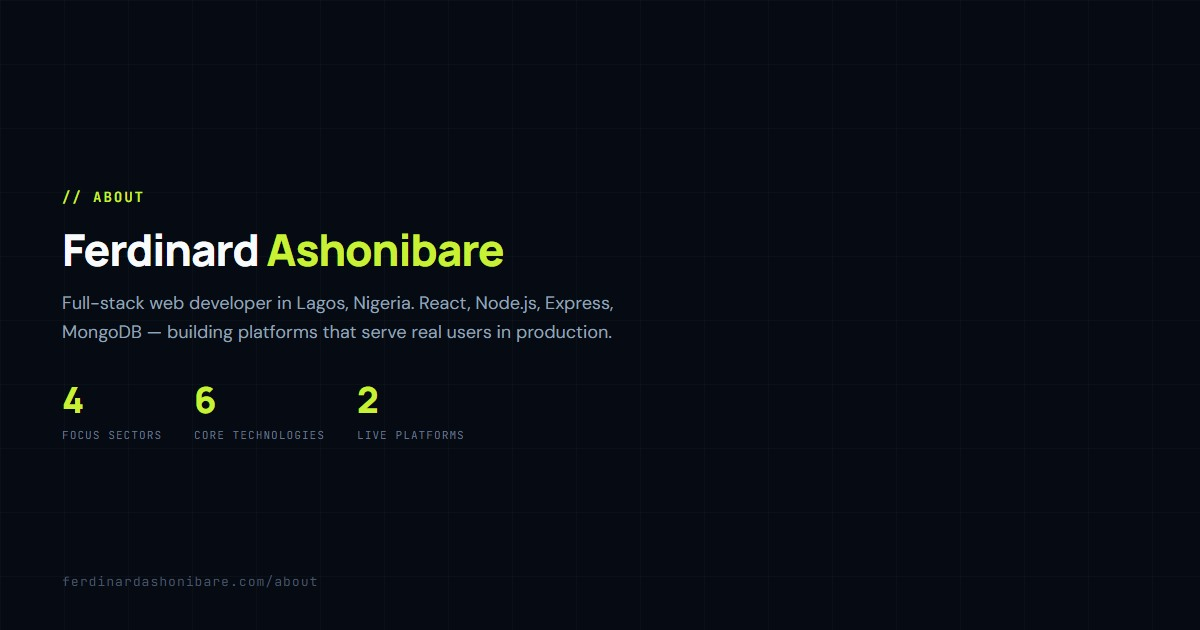
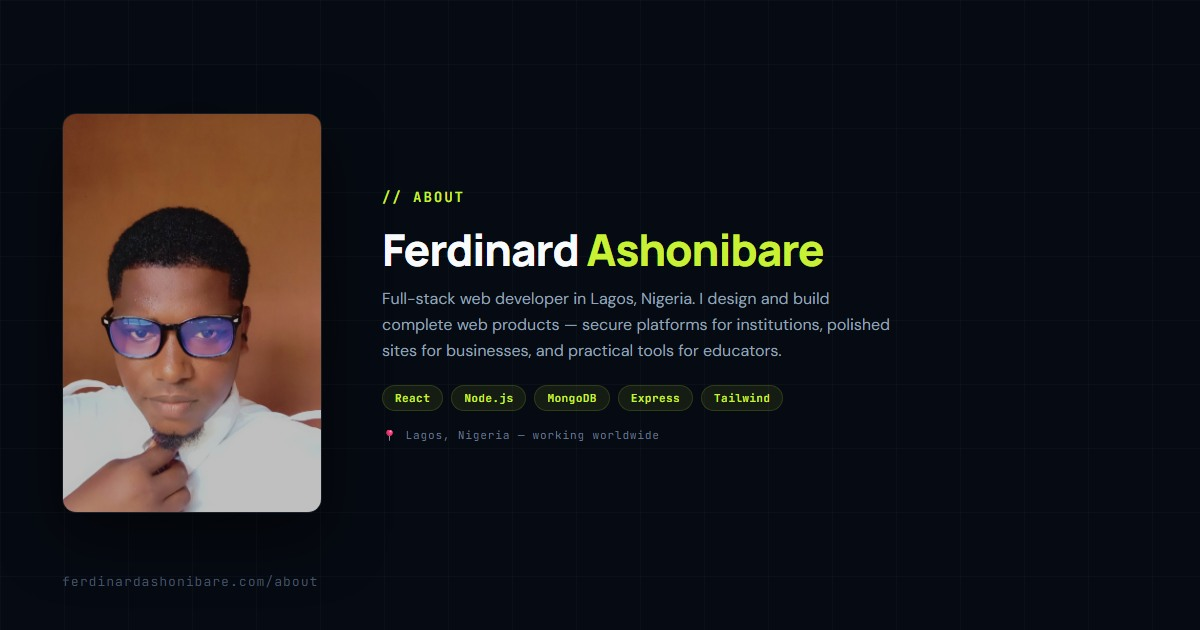
reoptimized preview link

Changed region(s): [[0.0308, 0.181, 0.74, 0.8143], [0.3083, 0.3016, 0.4008, 0.3317]]

diff --git a/src/utils/routeMeta.js b/src/utils/routeMeta.js
@@ -75,7 +75,7 @@ export const routeMeta = [
       title: 'Case Study: So-Safe Corps | Ferdinard Ashonibare — Full-Stack Developer',
       description:
         'How Ferdinard Ashonibare built the secure digital platform for Ogun State So-Safe Corps — research, architecture, security, and delivery.',
-      ogImage: '/projects/so-safe-corps.jpg',
+      ogImage: '/og-cs-so-safe-corps.jpg',
       keywords: ['case study', 'government platform', 'Ogun State So-Safe Corps', 'Ferdinard Ashonibare', 'web developer case study']
     }
   },
@@ -142,6 +142,11 @@ export const articleRoutes = insights.map((insight) => ({
 // source of truth: a project with a non-empty `caseStudyUrl` gets a real,
 // prerendered route. The slug is extracted from the URL so projects, router,
 // prerenderer, sitemap, breadcrumbs, and structured data all agree.
+const csOgImages = {
+  'so-safe-corps': '/og-cs-so-safe-corps.jpg',
+  'verdant-estates': '/og-cs-verdant-estates.jpg',
+};
+
 export const caseStudyRoutes = projects
   .filter((project) => project.caseStudyUrl)
   .map((project) => ({
@@ -152,7 +157,7 @@ export const caseStudyRoutes = projects
     seo: {
       title: `Case Study: ${project.name} | Ferdinard Ashonibare`,
       description: `${project.tagline} — an in-depth case study by Ferdinard Ashonibare on the ${project.name} ${project.sector.toLowerCase()} project.`,
-      ogImage: project.image || siteConfig.defaultImage,
+      ogImage: csOgImages[project.slug] || project.image || siteConfig.defaultImage,
       keywords: ['case study', project.name, project.sector, 'Ferdinard Ashonibare']
     }
   }));
